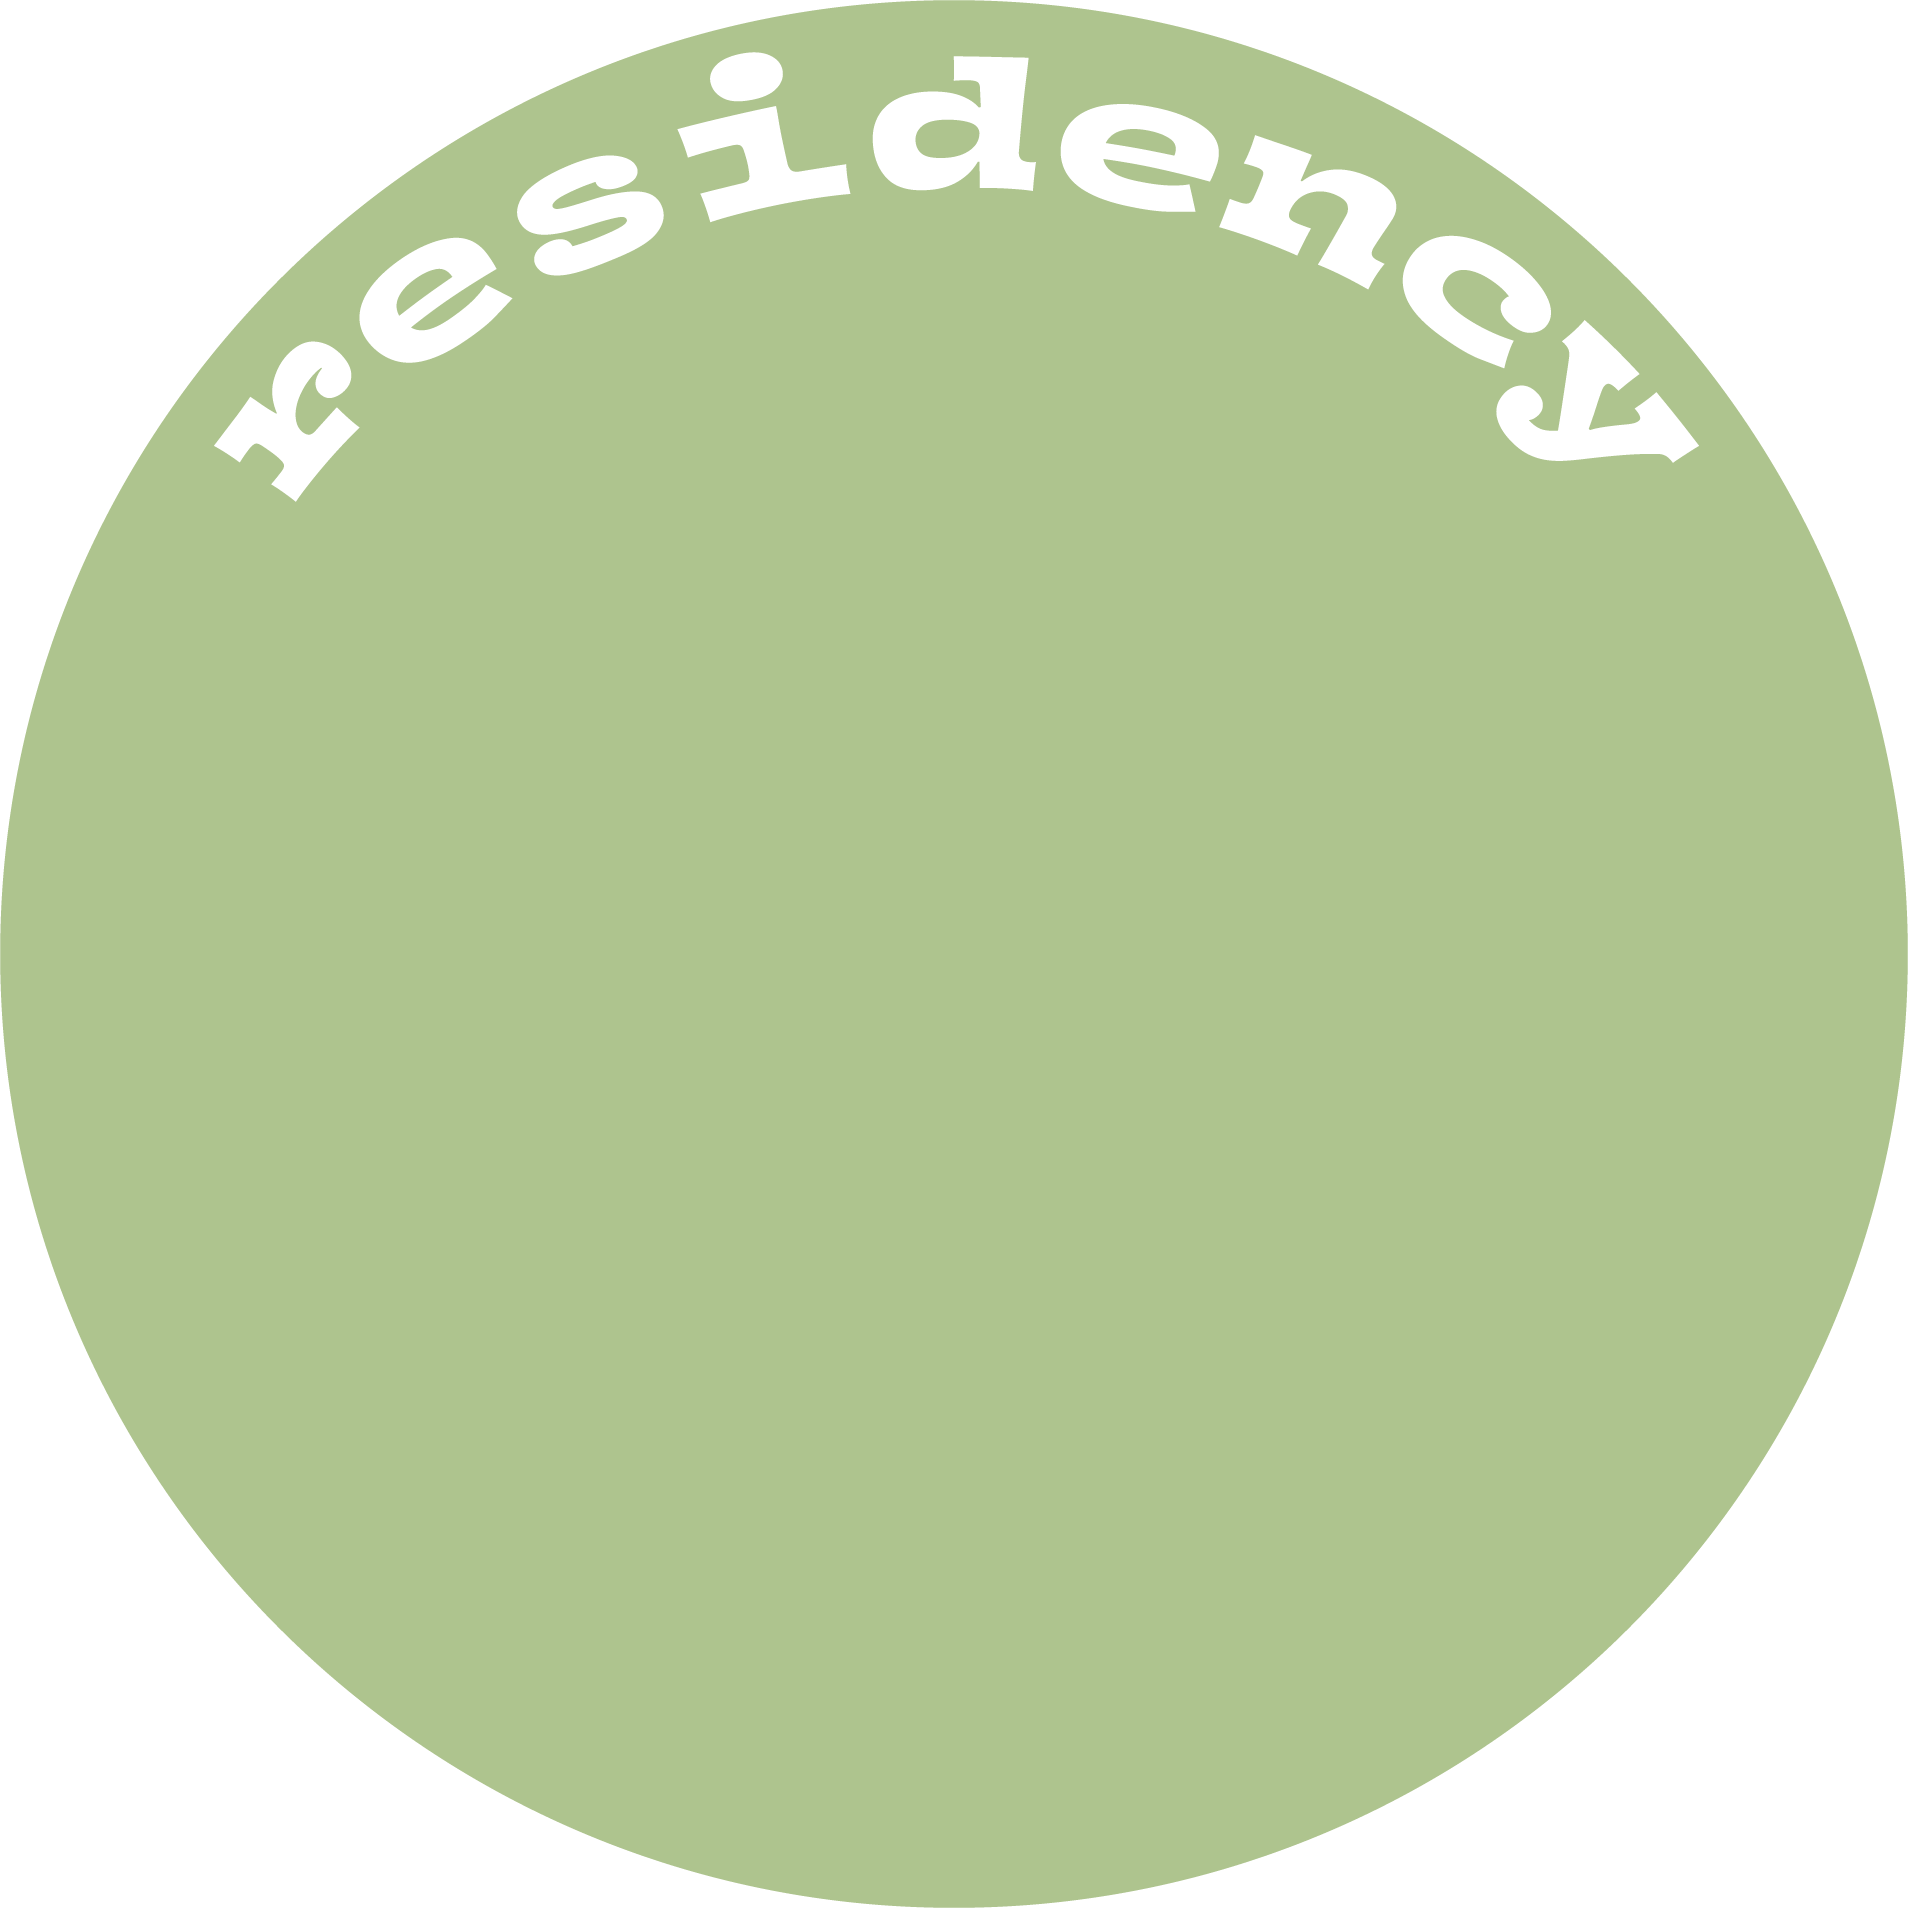
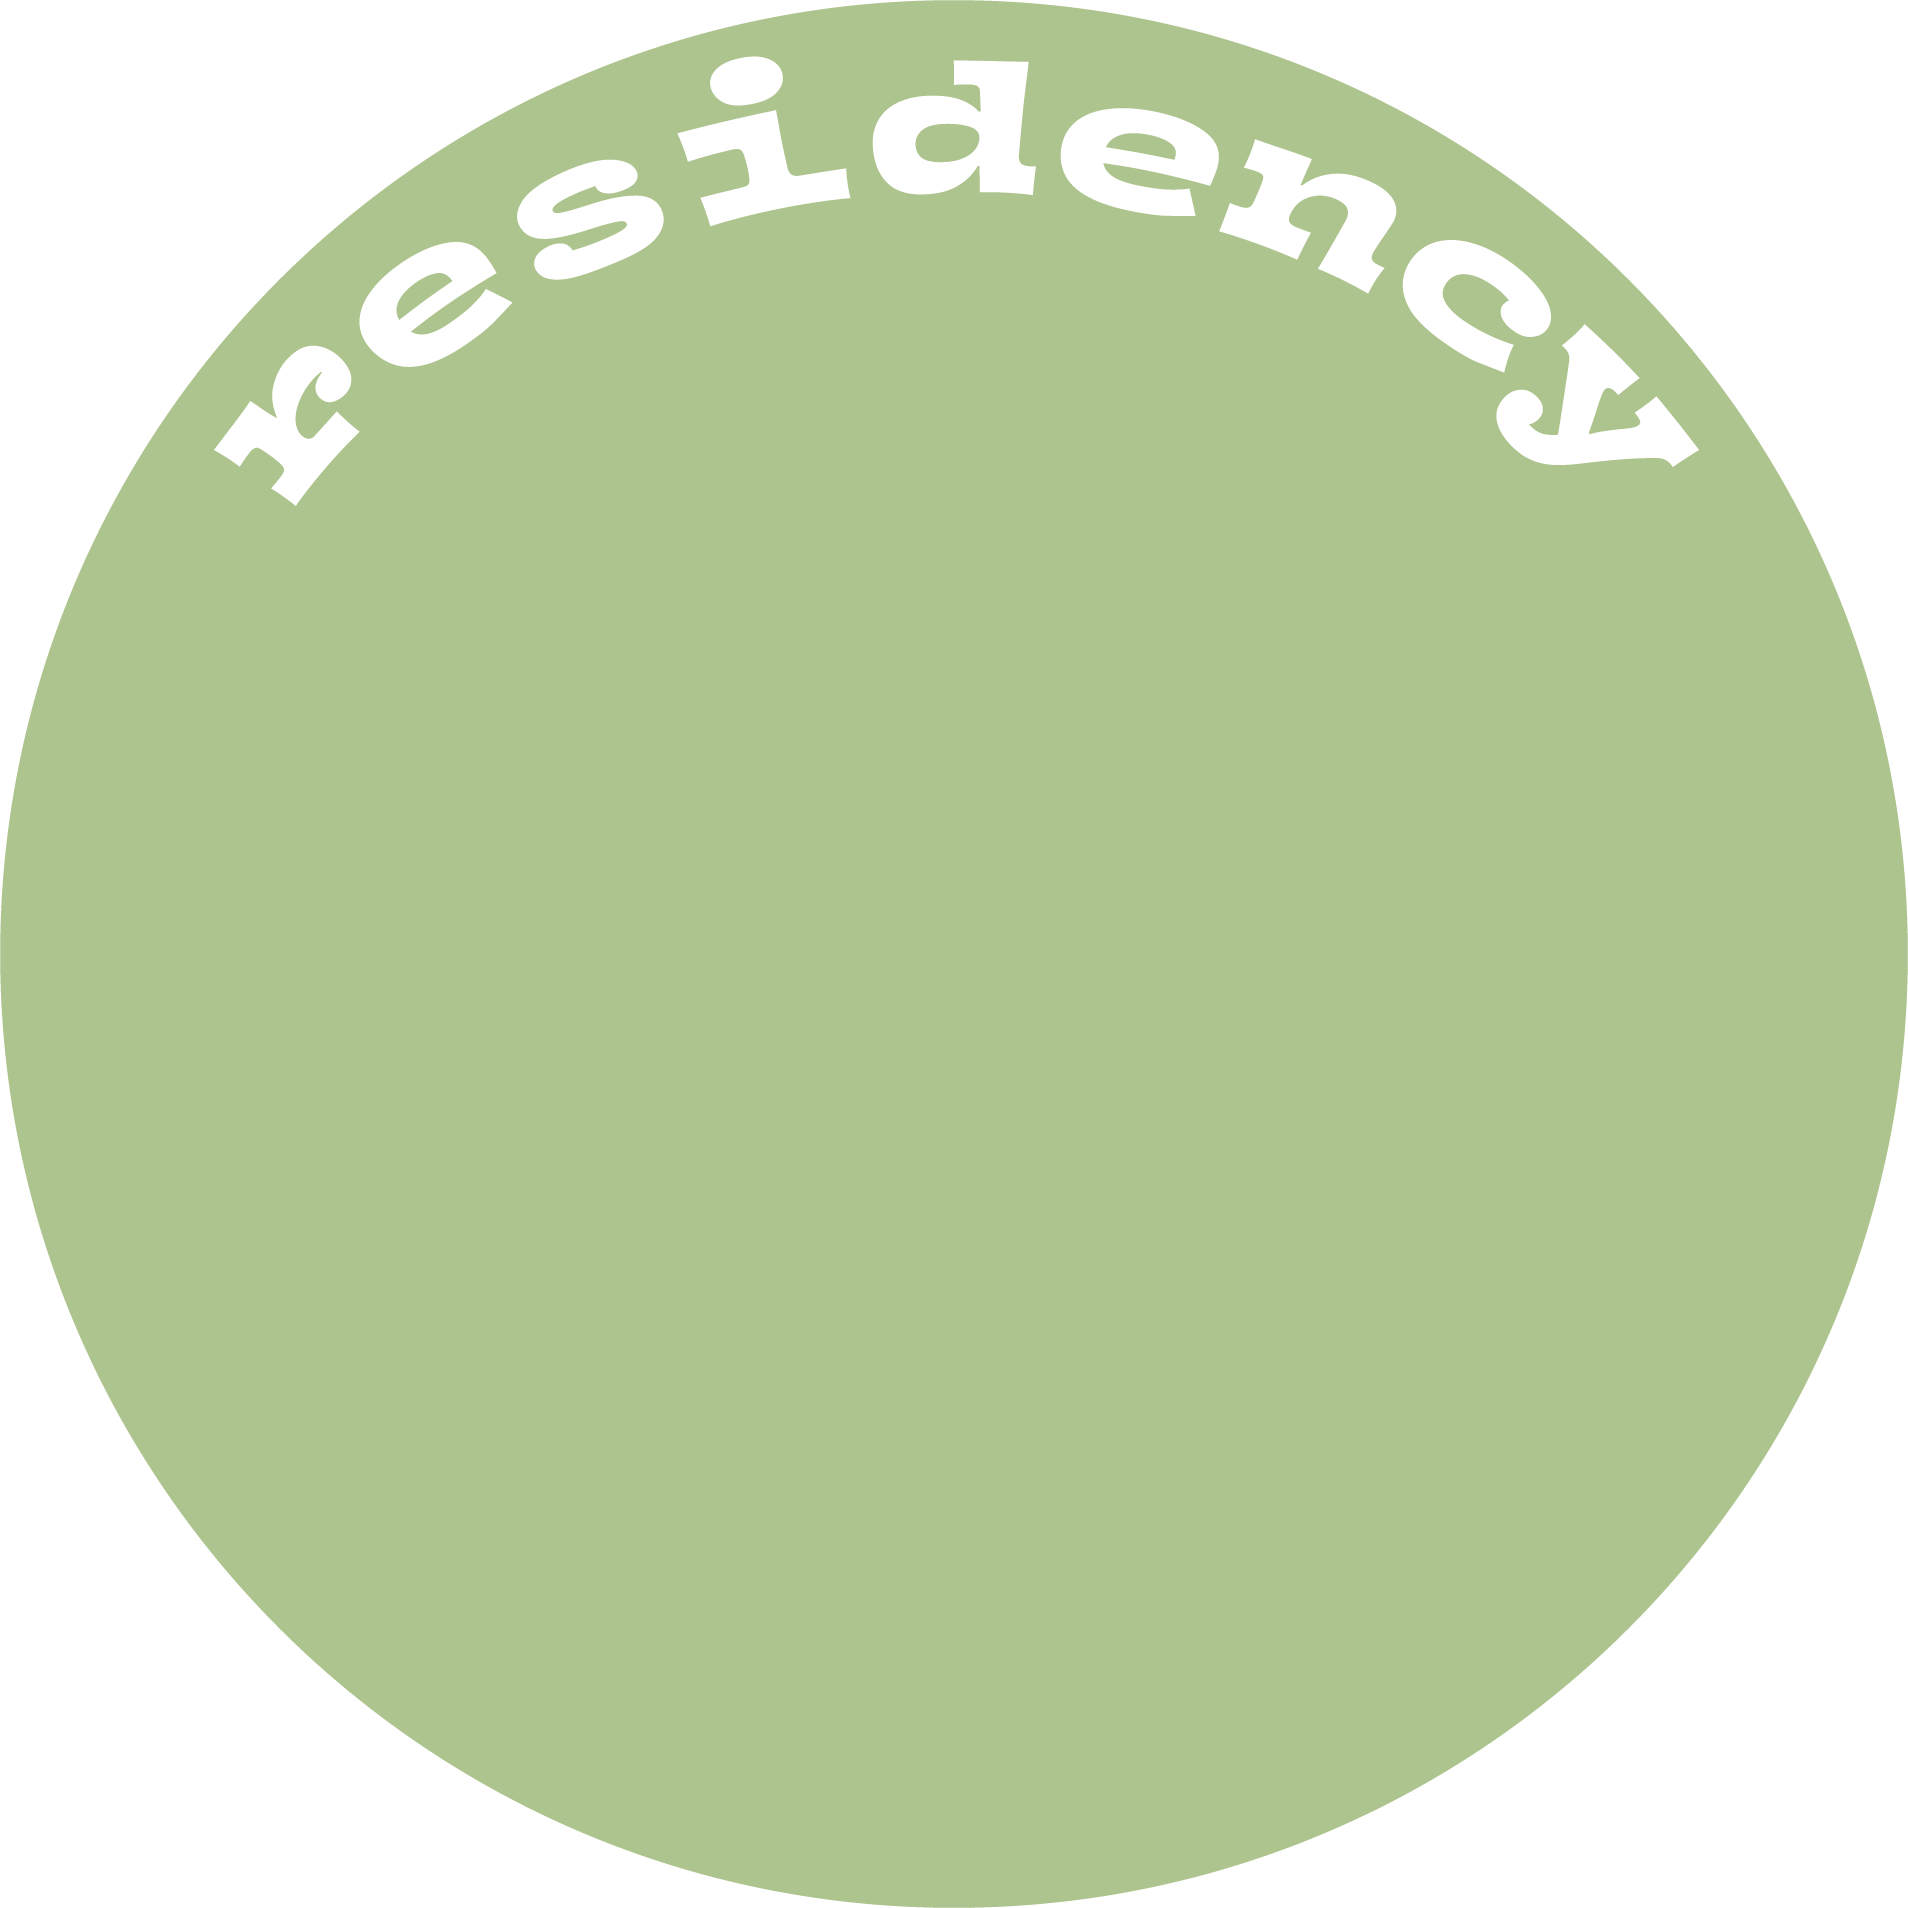
-f add anim controller and backToTop styling

diff --git a/src/components/Residency.jsx b/src/components/Residency.jsx
@@ -5,11 +5,13 @@ import about from "/images/about.jpg";
 import facilities from "/images/facilities.jpg";
 
 import Collapsible from "./Collapsible";
+import LaxAnimController from "./LaxAnimController";
 import Curtain from "./Curtain";
 
 export default function Residency() {
   return (
     <>
+      <LaxAnimController />
       <nav className="container">
         <nav className="goal-container" id="goal">
           <img src={goal} alt="placeholder"></img>
@@ -45,27 +47,9 @@ export default function Residency() {
                 </ul>
               }
             />
-            <Collapsible
-              question={<p>Residency Benefits</p>}
-              answer={
-                <ul>
-                  <li>
-                    2 Months dedicated to your art practice, creating a body of
-                    work you will keep.
-                  </li>
-                  <li>A platform to showcase your work</li>
-                  <li>A $3000 stipend </li>
-                  <li>An $800 supply stipend</li>
-                  <li>
-                    Admission into a network of artists and creatives in
-                    Cleveland{" "}
-                  </li>
-                </ul>
-              }
-            />
-            <Collapsible
-              question={<p>Residency Responsibilities</p>}
-              answer={
+            <Curtain
+              curtain={<p>Residency Responsibilities</p>}
+              curtainContent={
                 <ul>
                   <li>Create a self-directed body of work for The Shoreway</li>
                   <li>Cooperate with Fever Dream marketing efforts </li>
@@ -73,9 +57,9 @@ export default function Residency() {
                 </ul>
               }
             />
-            <Collapsible
-              question={<p>Eligibility</p>}
-              answer={
+            <Curtain
+              curtain={<p>Eligibility</p>}
+              curtainContent={
                 <ul>
                   <li>You must be 21 years old or older </li>
                   <li>
@@ -91,9 +75,9 @@ export default function Residency() {
                 </ul>
               }
             />
-            <Collapsible
-              question={<p>Adjudication</p>}
-              answer={
+            <Curtain
+              curtain={<p>Adjudication</p>}
+              curtainContent={
                 <ul>
                   <li>
                     The final candidate for the residency program is decided by
@@ -104,9 +88,9 @@ export default function Residency() {
                 </ul>
               }
             />
-            <Collapsible
-              question={<p>Apply</p>}
-              answer={
+            <Curtain
+              curtain={<p>Apply</p>}
+              curtainContent={
                 <ul>
                   <li>
                     Submit an application to become the next Fever Dream
@@ -128,10 +112,6 @@ export default function Residency() {
                 </ul>
               }
             />
-            {/* <Collapsible
-              question={<a href="/residency#apply">How to Apply</a>}
-            />
-            <Collapsible question={<a href="/residency#faq">FAQ</a>} /> */}
           </nav>
           <img src={about} alt="placeholder" />
         </nav>

diff --git a/src/components/BacktoTop.jsx b/src/components/BacktoTop.jsx
@@ -2,6 +2,7 @@ import React, { useEffect } from "react";
 import lax from "lax.js";
 
 import backToTopWrapperRes from "/images/back-to-top-ring-res.png";
+import backToTopWrapperAbt from "/images/back-to-top-ring-abt.png";
 
 export default function BacktoTop(props) {
   const { page } = props;
@@ -36,24 +37,14 @@ export default function BacktoTop(props) {
     lax.addDriver("scrollY", function () {
       return window.scrollY;
     });
-
-    //add elements
-    lax.addElements("#spinner", {
-      scrollY: {
-        rotate: [
-          [0, "pageHeight/1.2"],
-          [0, 360],
-        ],
-      },
-    });
   }, []);
 
   return (
-    <>
+    <nav className="back-to-top-wrapper">
       {page === "about" ? (
         <img
-          className="back-to-top-wrapper"
-          src={backToTopWrapperAbout}
+          className="back-to-top-ring"
+          src={backToTopWrapperAbt}
           alt="text saying about, wrapped in a rotating circle"
           id="spinner"
         />
@@ -62,7 +53,7 @@ export default function BacktoTop(props) {
       )}
       {page === "residency" ? (
         <img
-          className="back-to-top-wrapper"
+          className="back-to-top-ring"
           src={backToTopWrapperRes}
           alt="text saying residency, wrapped in a rotating circle"
           id="spinner"
@@ -77,6 +68,6 @@ export default function BacktoTop(props) {
       >
         top
       </button>
-    </>
+    </nav>
   );
 }

diff --git a/src/styles/residency.css b/src/styles/residency.css
@@ -46,7 +46,7 @@ li {
 
 .container {
   margin-inline: auto;
-  width: min(100%, 150rem);
+  /* width: min(100%, 150rem); */
 }
 
 .label :hover {
@@ -274,11 +274,13 @@ img {
 .curtain {
   cursor: pointer;
   padding-bottom: 1.25rem;
+  /* position: absolute; */
 }
 
 .curtain-text {
   display: flex;
   align-items: center;
+  /* position: absolute; */
 }
 
 .curtain-content {
@@ -287,7 +289,8 @@ img {
   /* max-height: 0; */
   display: none;
   overflow: hidden;
-  position: absolute;
+  /* position: relative; */
+  animation: fadeIn ease-out 2s;
   /* transition: all 0.25s cubic-bezier(0, 1, 0, 1); */
   /* transition: transform 0.2s ease-out; */
 }
@@ -298,7 +301,7 @@ img {
 
 .curtain-content.open {
   display: block;
-  max-width: 45%;
+  /* max-width: 45%; */
   background: #aec48e;
   /* height: auto; */
   max-height: 9999px;

diff --git a/src/components/LaxAnimController.jsx b/src/components/LaxAnimController.jsx
@@ -1,7 +1,7 @@
 import React, { useEffect } from "react";
 import lax from "lax.js";
 
-export default function FadeOnScroll(props) {
+export default function LaxAnimController(props) {
   const { elements } = props;
   useEffect(() => {
     //setup lax
@@ -13,10 +13,18 @@ export default function FadeOnScroll(props) {
     });
 
     //add elements
+    lax.addElements("#spinner", {
+      scrollY: {
+        rotate: [
+          [0, "pageHeight/1.2"],
+          [0, 360],
+        ],
+      },
+    });
     lax.addElements(".mission-container", {
       scrollY: {
         opacity: [
-          [0, "elHeight"],
+          ["elInY/5", "elOutY"],
           [1, 0],
         ],
       },

diff --git a/src/components/About.jsx b/src/components/About.jsx
@@ -8,13 +8,13 @@ import johnPaul from "/images/johnPaul.jpg";
 import maxmillian from "/images/maxmillian.jpg";
 
 import Collapsible from "./Collapsible";
-import FadeOnScroll from "./FadeOnScroll";
+import LaxAnimController from "./LaxAnimController";
 
 export default function About() {
   //make this a drop down with focus
   return (
     <>
-      <FadeOnScroll />
+      <LaxAnimController />
       <div className="container">
         <nav className="mission-container" id="mission">
           <nav className="mission-container-text">

diff --git a/src/components/Curtain.jsx b/src/components/Curtain.jsx
@@ -10,8 +10,11 @@ export default function Curtain(props) {
 
   return (
     <div className="curtain" onClick={() => toggle(open)}>
-      <nav className="curtain-text">{curtain}</nav>
-      <nav className={open ? "curtain-content open" : "curtain-content"}>
+      {!open ? <nav className="curtain-text">{curtain}</nav> : <></>}
+      <nav
+        className={open ? "curtain-content open" : "curtain-content"}
+        onClick={() => toggle(open)}
+      >
         {curtainContent}
       </nav>
     </div>

diff --git a/src/styles/layout.css b/src/styles/layout.css
@@ -126,7 +126,7 @@ a {
   right: 2rem;
 }
 
-.back-to-top-wrapper {
+.back-to-top-ring {
   display: block;
   position: fixed;
   z-index: 2;
@@ -135,7 +135,17 @@ a {
   width: 6rem;
   height: 6rem;
   border: none;
-  /* box-shadow: 0 0.25rem 0.25rem rgba(0, 0, 0, 0.25); */
+}
+
+.back-to-top-wrapper {
+  position: fixed;
+  z-index: 2;
+  right: 1rem;
+  bottom: 1rem;
+  width: 6rem;
+  height: 6rem;
+  border: none;
+  filter: drop-shadow(0 0.5rem 0.25rem rgba(0, 0, 0, 0.25));
 }
 
 footer {

diff --git a/src/styles/about.css b/src/styles/about.css
@@ -79,7 +79,7 @@ img {
 
 .container {
   margin-inline: auto;
-  width: min(100%, 150rem);
+  /* width: min(100%, 150rem); */
 }
 
 .mission-container {
